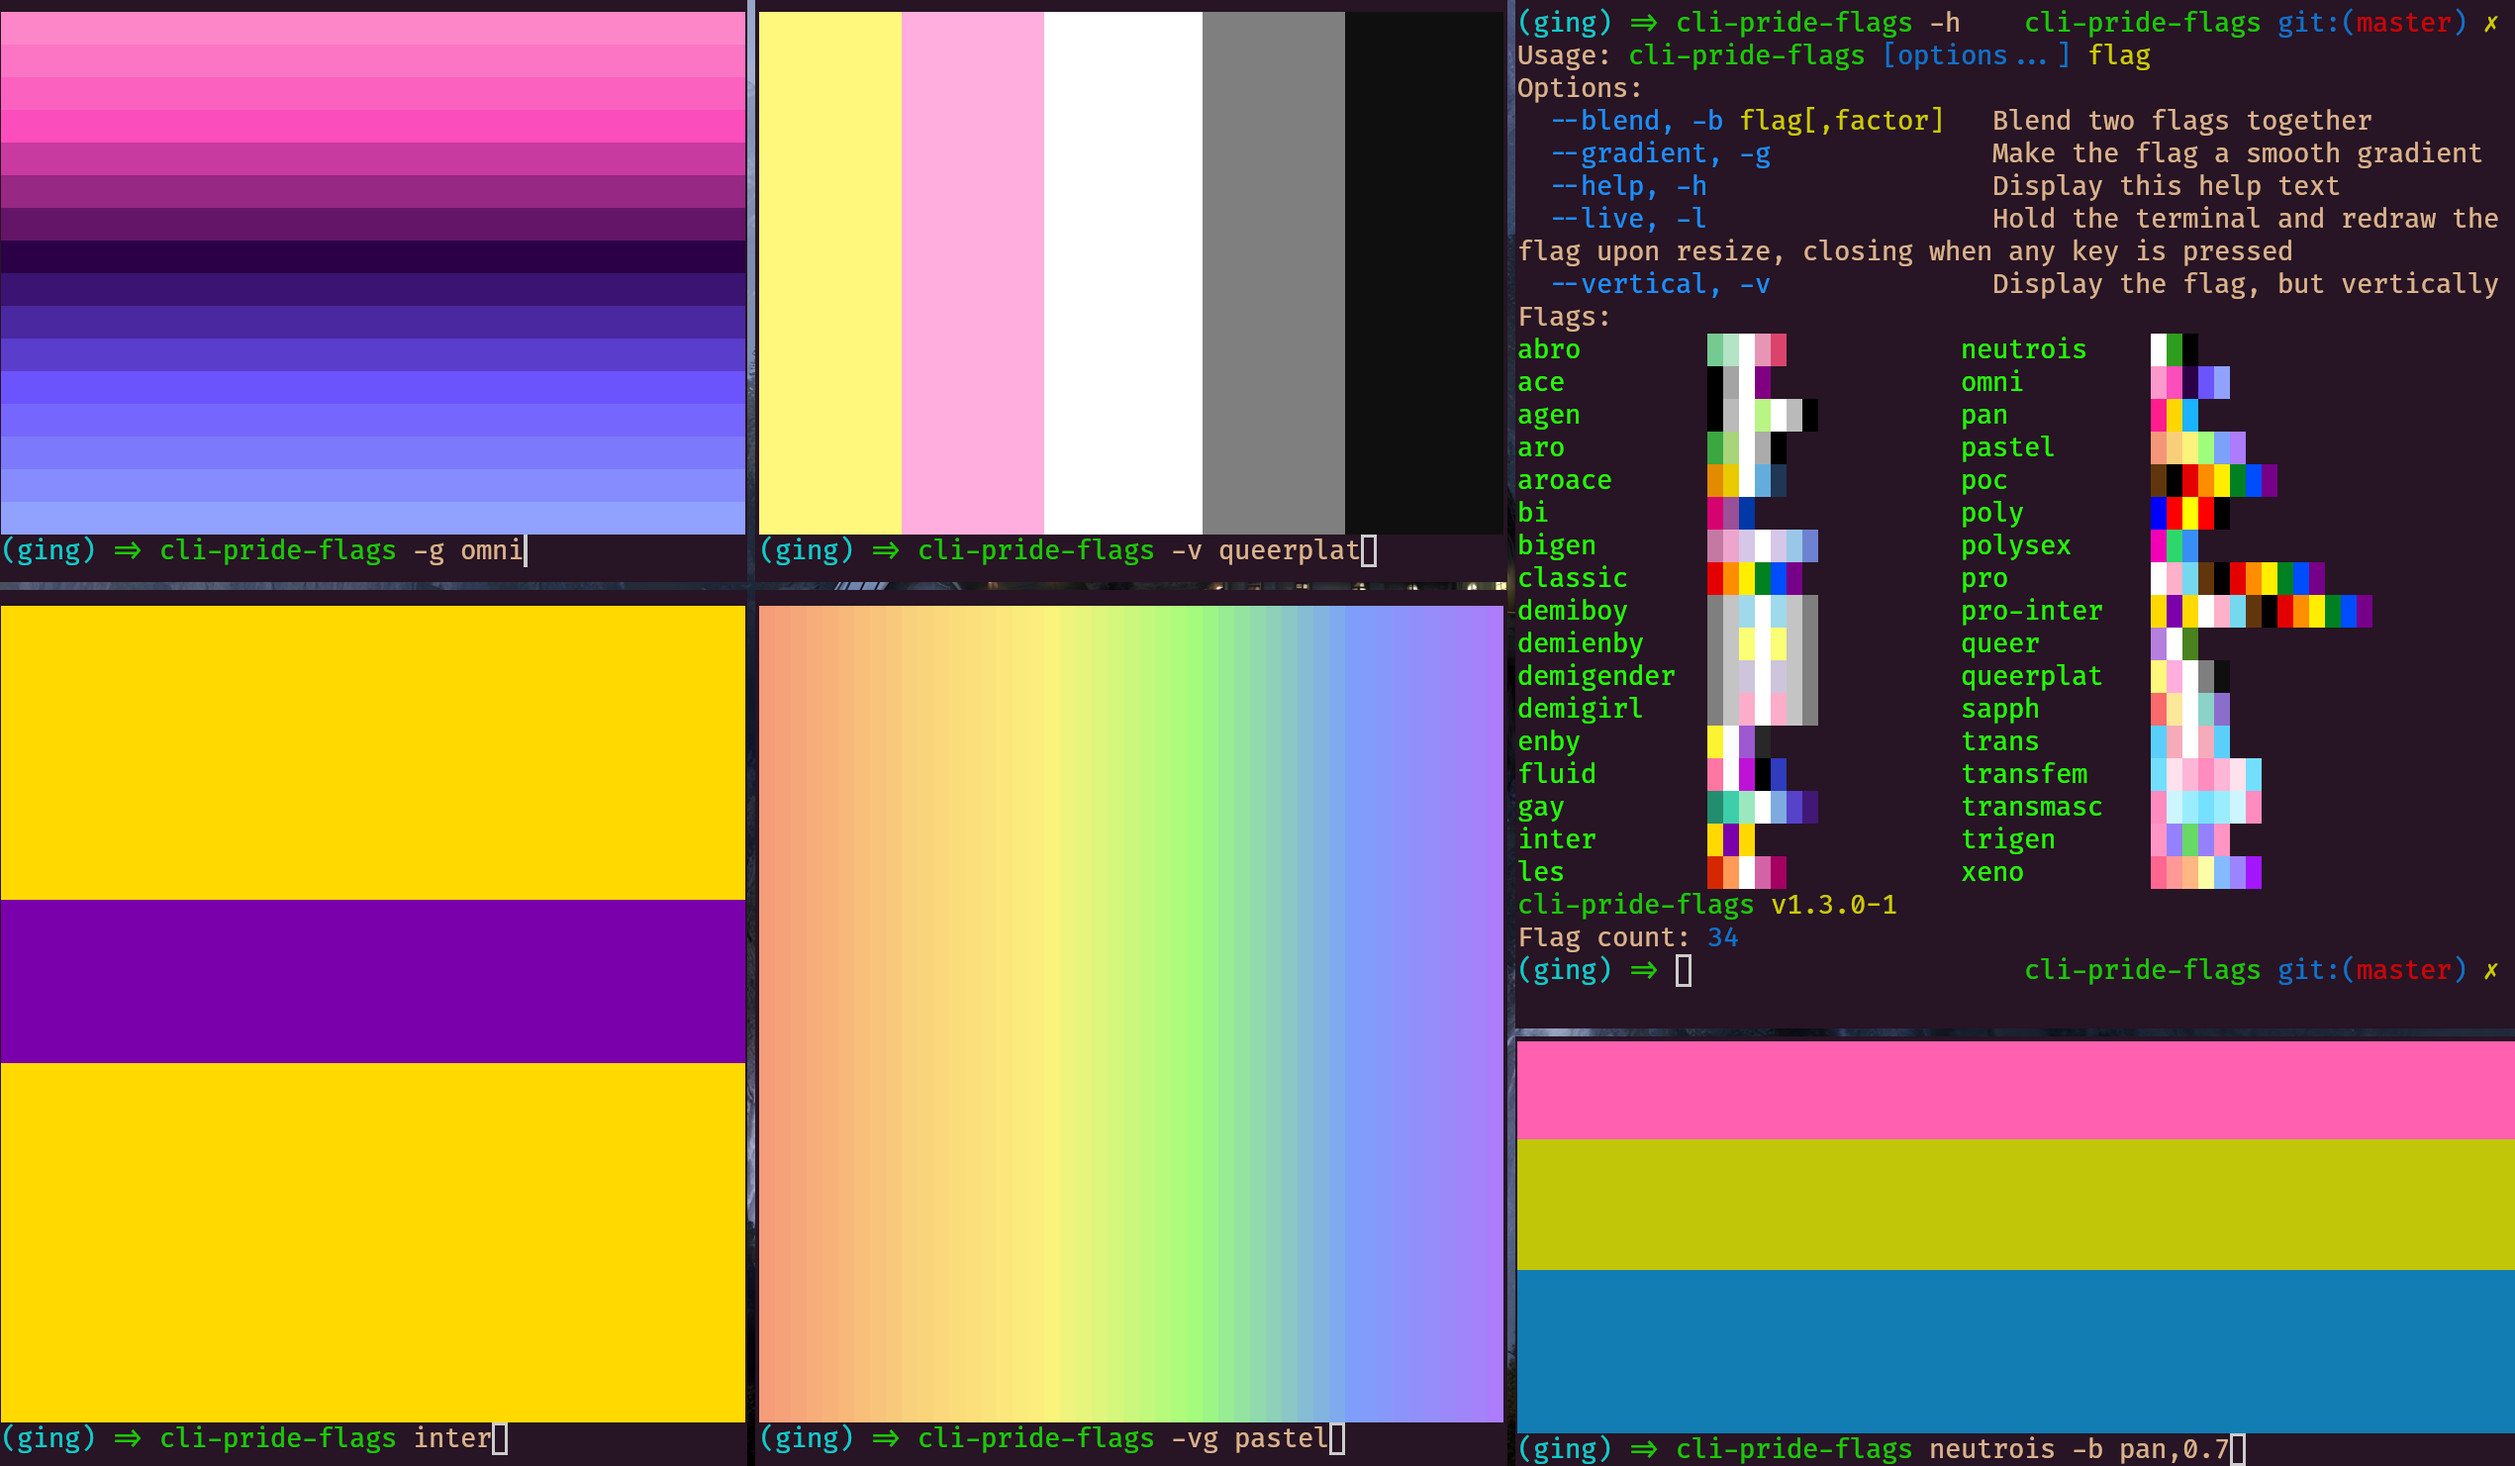
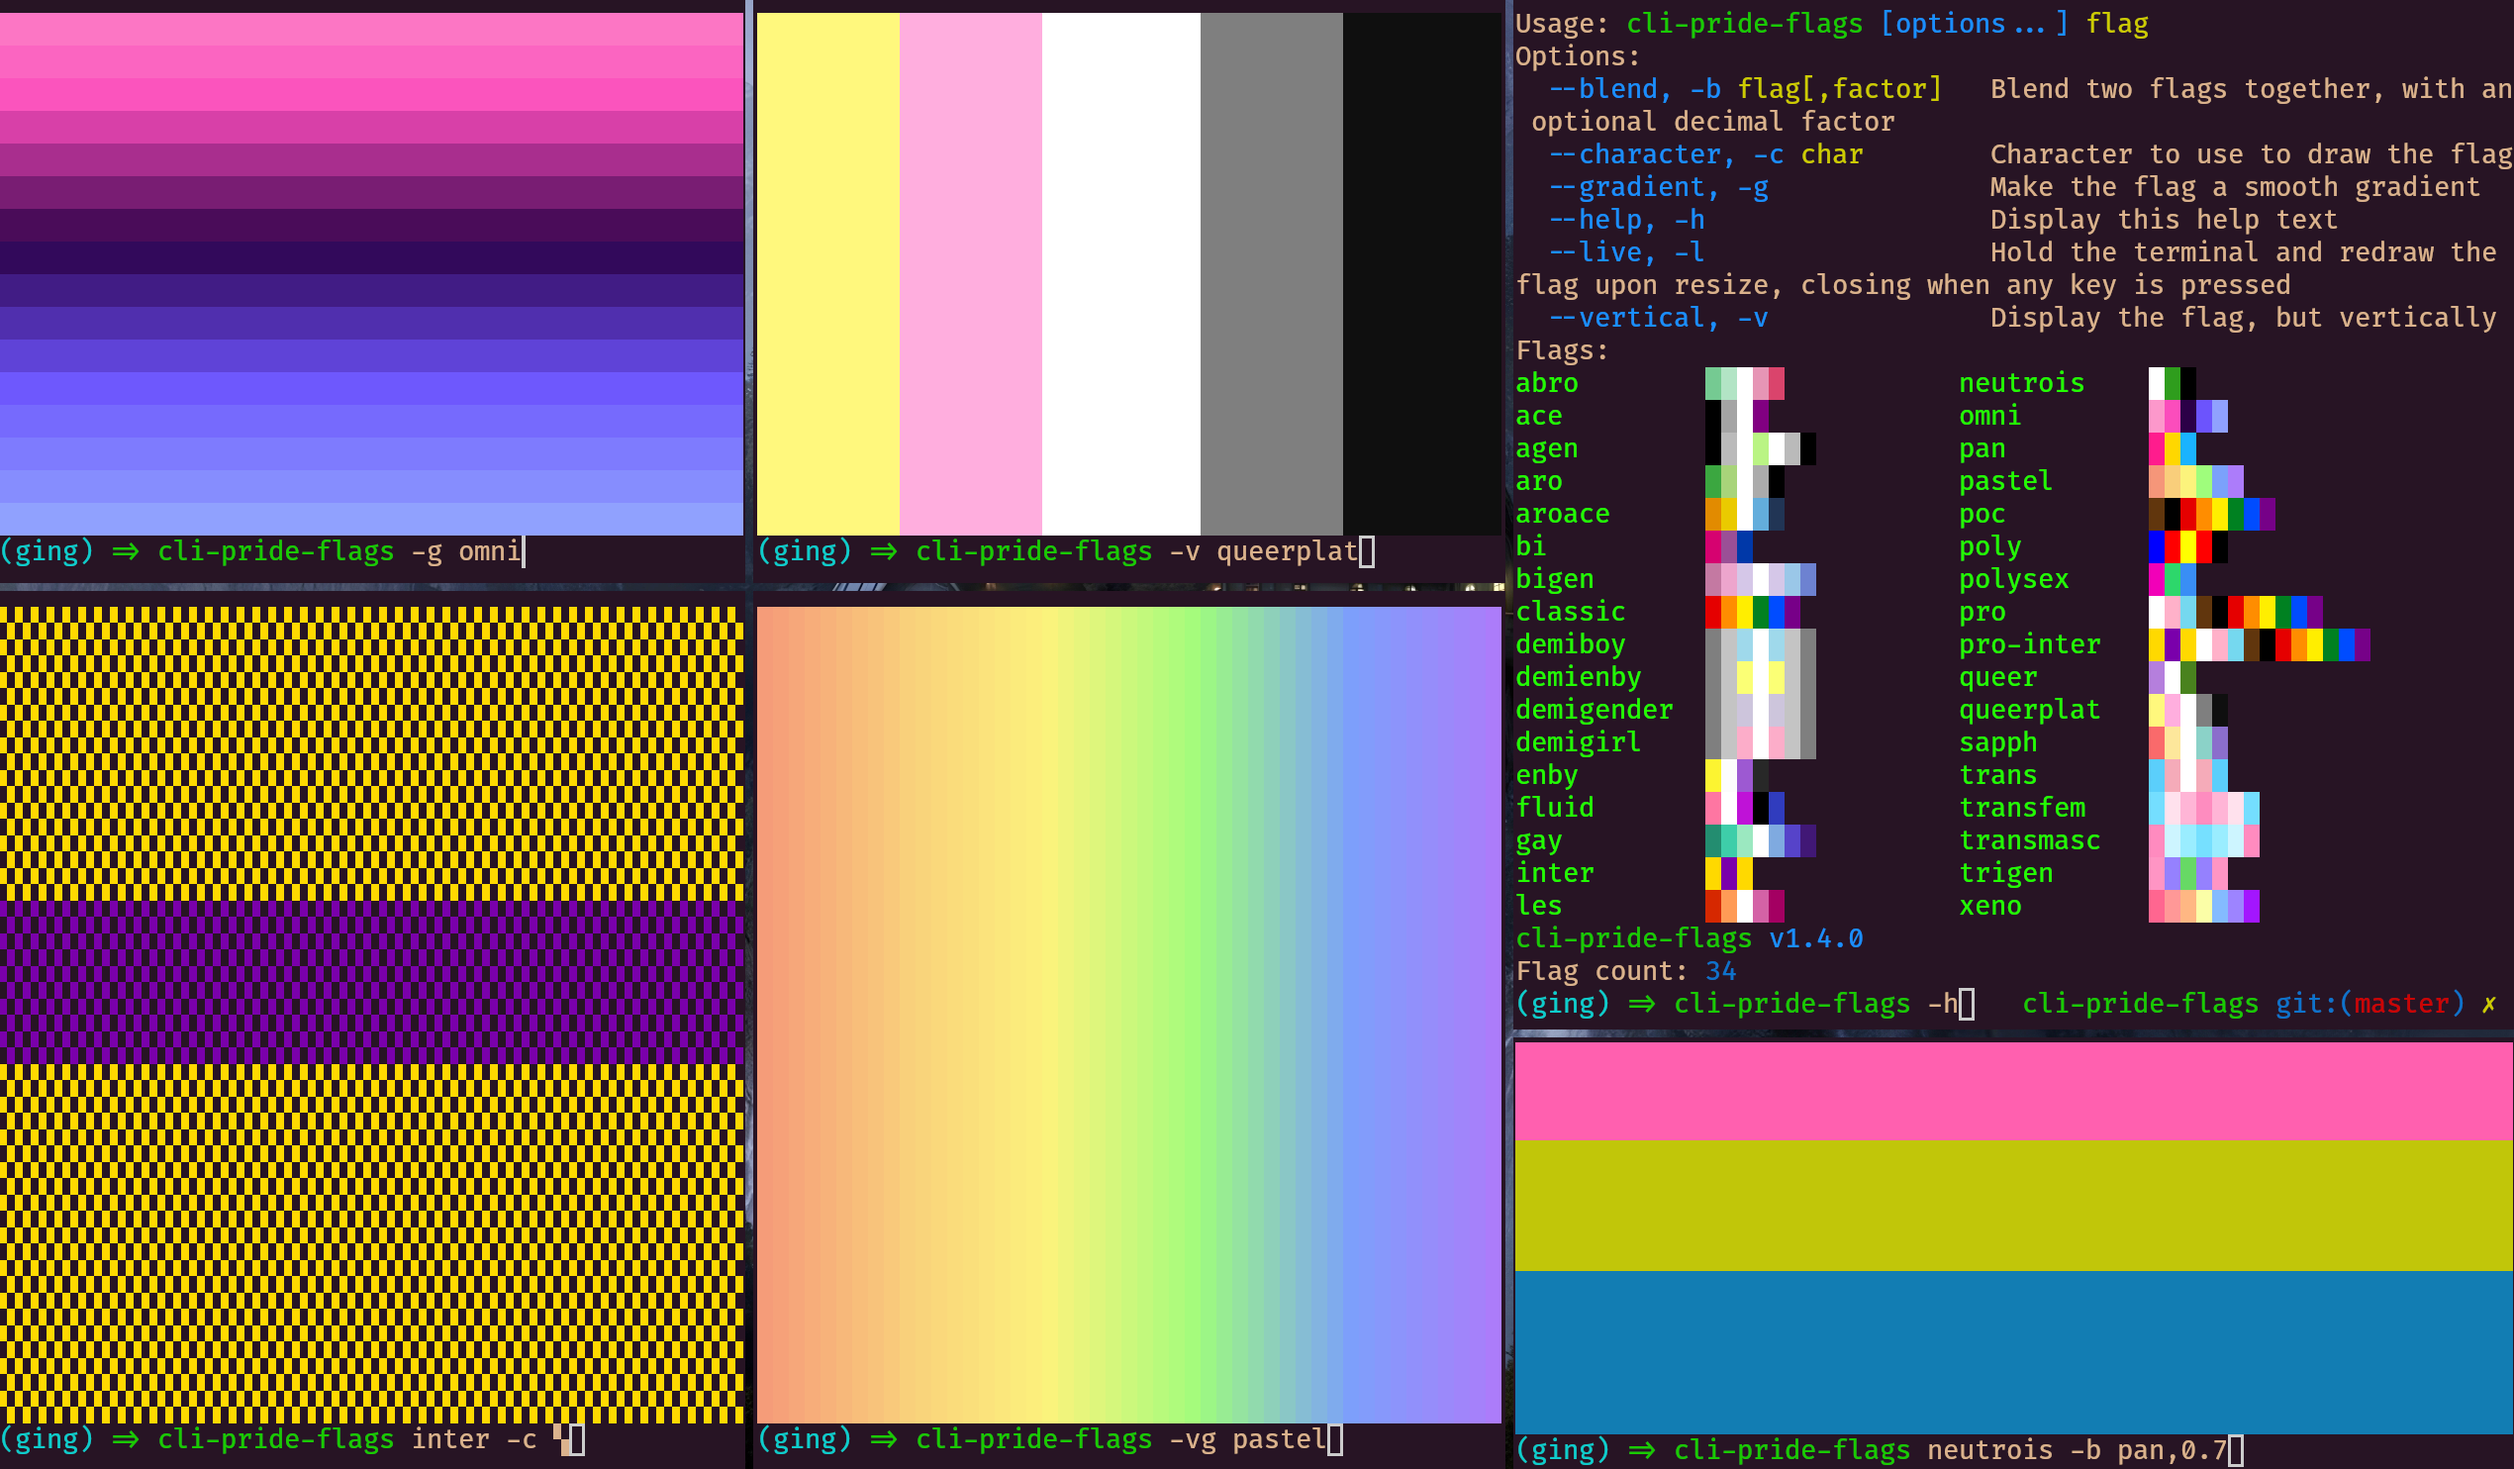
general refactoring for readability, update screenshots

diff --git a/src/main.js b/src/main.js
@@ -14,12 +14,12 @@ const argparser = new ArgParser({
     'live': { type: 'boolean', short: 'l', description: 'Hold the terminal and redraw the flag upon resize, closing when any key is pressed' },
     'vertical': { type: 'boolean', short: 'v', description: 'Display the flag, but vertically' },
     'blend': { type: 'string', short: 'b', description: 'Blend two flags together, with an optional decimal factor', argName: 'flag[,factor]' },
-    'character': {type: 'string', short: 'c', description: 'Character to use to draw the flag', argName: 'char'}
+    'character': { type: 'string', short: 'c', description: 'Character to use to draw the flag', argName: 'char' }
 })
 
 // setup
 const { args, options } = argparser.parse()
-const BLOCK = options.character?.substring(0, 1) || "█"
+const CHAR = options.character?.trim().substring(0, 1) || "█"
 const CHOSEN_FLAG = args[0]
 const availableHeight = process.stdout.rows
 const availableWidth = process.stdout.columns
@@ -35,7 +35,7 @@ function help() {
         let flagLine = `${flagName}` // indent the line...
         flagLine = flagLine.padEnd(flagLine.length + spaces, " ") // ...add calculated spaces...
         for (const color of flags[flagName].stripes) {
-            flagLine += chalk.hex(color.code)(BLOCK) // ..and then add the miniflag
+            flagLine += chalk.hex(color.code)(CHAR) // ..and then add the miniflag
         }
         flagList.push(flagLine)
     }
@@ -78,7 +78,7 @@ function createFlag(availableWidth, availableHeight, options) {
                 const color2 = blendColors.getColor(position, options.gradient ? 'gradient' : null)
                 color = interpolateColor(color, color2, blendFactor)
             }
-            finishedFlag += chalk.hex(color)(BLOCK)
+            finishedFlag += chalk.hex(color)(CHAR)
         }
         return finishedFlag.repeat(availableHeight)
     }
@@ -94,7 +94,7 @@ function createFlag(availableWidth, availableHeight, options) {
             const color2 = blendColors.getColor(position, options.gradient ? 'gradient' : null)
             color = interpolateColor(color, color2, blendFactor)
         }
-        finishedFlag += chalk.hex(color)(BLOCK.repeat(availableWidth))
+        finishedFlag += chalk.hex(color)(CHAR.repeat(availableWidth))
         currLine++
     }
     return finishedFlag

diff --git a/src/util.js b/src/util.js
@@ -145,7 +145,7 @@ class ArgParser {
         try {
             const { values, positionals } = parseArgs({ args: inputArray, options: this.#options, allowPositionals: true })
             return { args: positionals, options: values }
-        } catch(e) {
+        } catch (e) {
             console.log(e.message)
             process.exit(1)
         }

diff --git a/README.MD b/README.MD
@@ -14,7 +14,8 @@ There's also a package in the AUR, maintained by `u/rhysperry111`! Install it wi
 
 # Usage
 
-`cli-pride-flags [options...] flag`  
+```
+cli-pride-flags [options...] flag
 Options:
   --blend, -b flag[,factor]   Blend two flags together, with an optional decimal factor
   --character, -c char        Character to use to draw the flag
@@ -22,8 +23,7 @@ Options:
   --help, -h                  Display this help text
   --live, -l                  Hold the terminal and redraw the flag upon resize, closing when any key is pressed
   --vertical, -v              Display the flag, but vertically
-
-- Flag is the name of the flag-- for example, you could input `bi`, `trans`, `transfem`, etc.  
+```
 Example: `cli-pride-flags -l trans` would display the trans flag and hold the terminal.
 
 # Screenshots
@@ -34,11 +34,11 @@ Some screenshots are below!
 
 ![agen, bi, fluid](./screenies/1.png)
 
-![some more flags](./screenies/2.png)
+![bunch of flags and help menu :D](./screenies/2.png)
 
 # Issues
 
-none :D
+none, hopefully uwu
 
 # TODO
 - commit more crimes, but queerly
